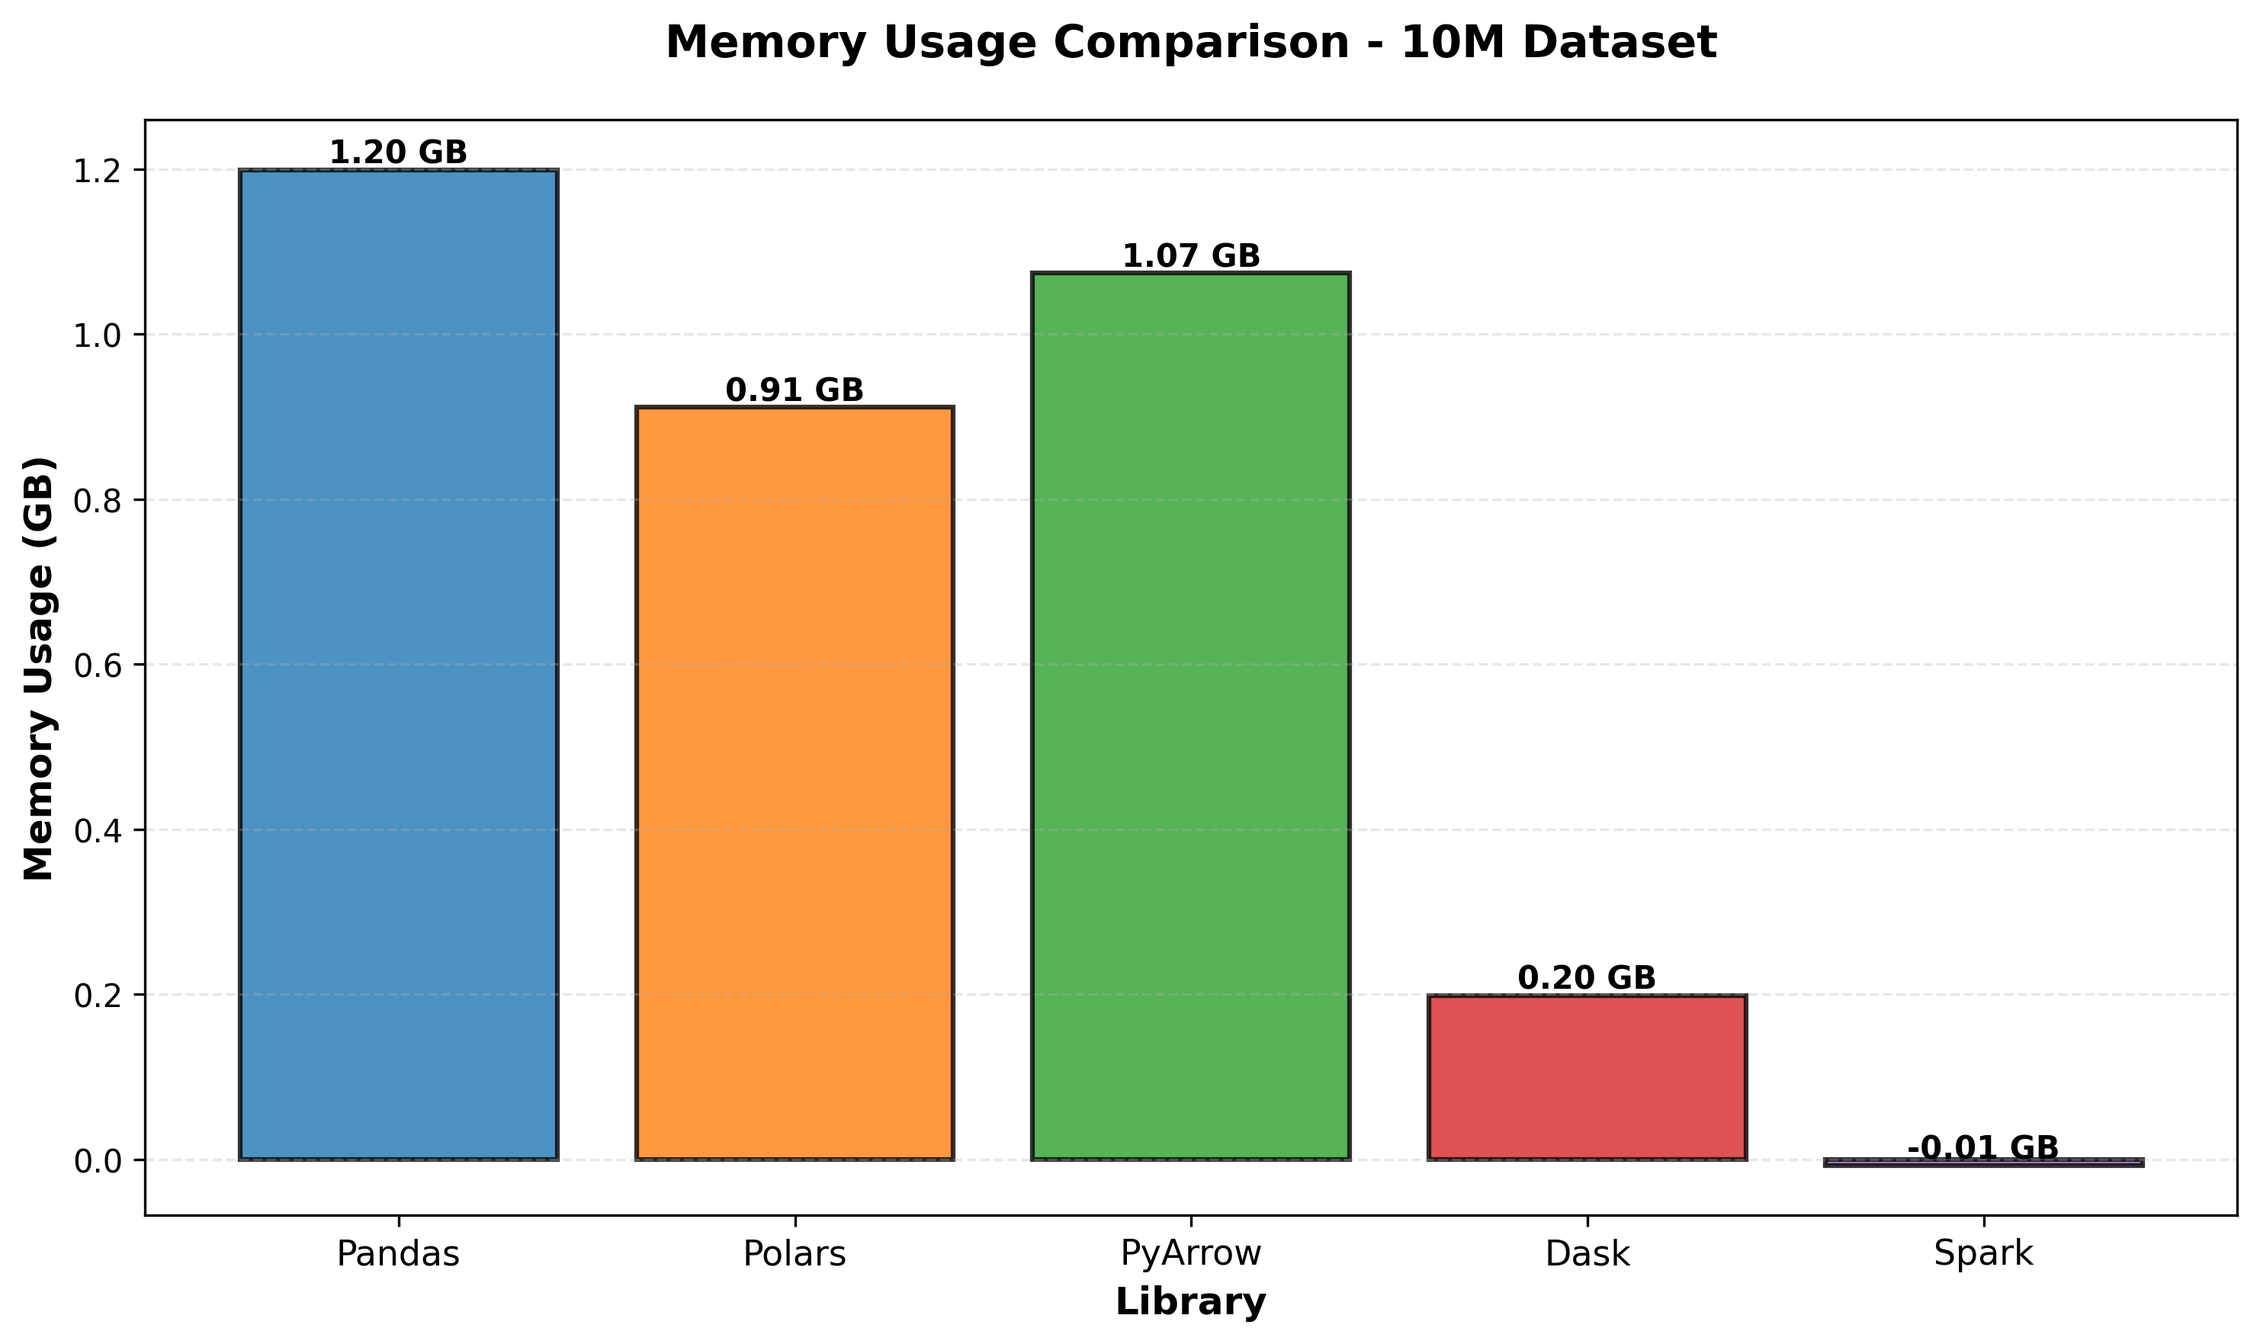
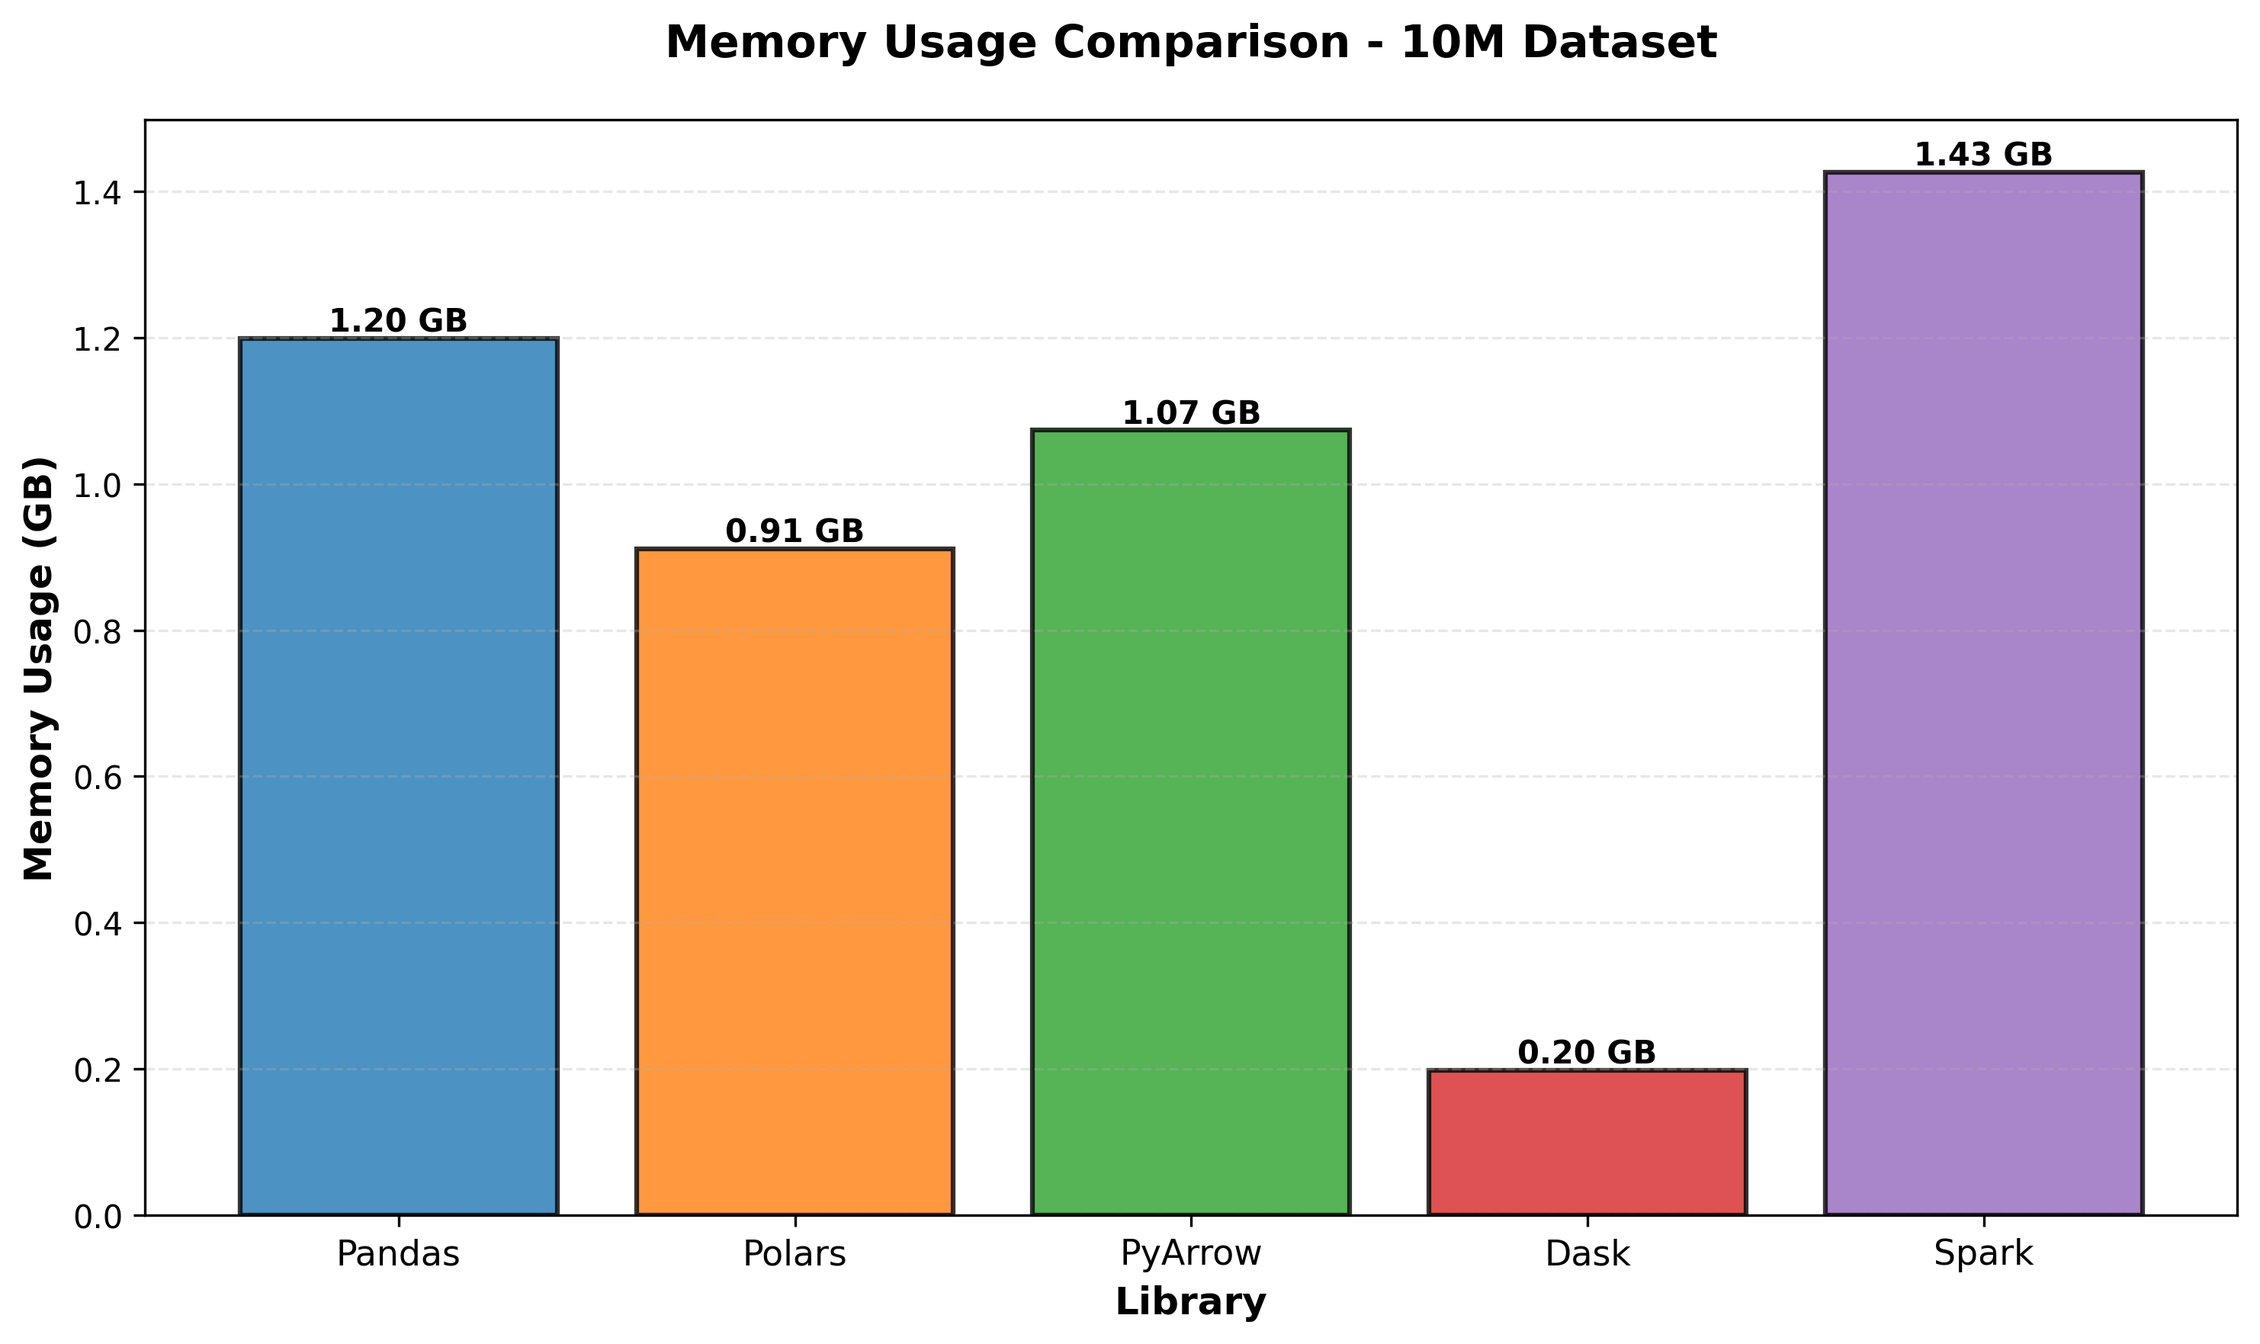
Enhance memory tracking and data processing in benchmarks

diff --git a/data_manipulation/benchmarks/unified/benchmark_all_libraries.py b/data_manipulation/benchmarks/unified/benchmark_all_libraries.py
@@ -3,6 +3,7 @@ import json
 import os
 import statistics
 import time
+import tracemalloc
 from dataclasses import dataclass
 from functools import wraps
 from pathlib import Path
@@ -11,7 +12,6 @@ from typing import Any, Dict, List, Optional, Tuple, Union
 import dask.dataframe as dd
 import pandas as pd
 import polars as pl
-import psutil
 import pyarrow as pa
 import pyarrow.compute as pc  # for compute functions
 from pyspark.sql import SparkSession
@@ -52,17 +52,20 @@ def time_operation(operation_name: str):
     def decorator(func):
         @wraps(func)
         def wrapper(self, *args, **kwargs):
-            # Memory before operation
-            process = psutil.Process()
-            memory_before = process.memory_info().rss / 1024 / 1024  # MB
+            # Start memory tracking
+            gc.collect()  # Clean up before measurement
+            tracemalloc.start()
 
             start_time = time.time()
             result = func(self, *args, **kwargs)
             execution_time = time.time() - start_time
 
-            # Memory after operation
-            memory_after = process.memory_info().rss / 1024 / 1024  # MB
-            memory_used = memory_after - memory_before
+            # Get memory usage (peak memory used during operation)
+            _, peak = tracemalloc.get_traced_memory()
+            tracemalloc.stop()
+
+            # Convert to MB
+            memory_used = peak / 1024 / 1024
 
             # Store single run results
             if not hasattr(self, "run_results"):
@@ -319,7 +322,10 @@ class DaskDataProcessor(BaseDataProcessor):
 
     @time_operation("cleaning")
     def clean_data(self, df: dd.DataFrame) -> dd.DataFrame:
-        return df.fillna(0)
+        result = df.fillna(0)
+        # Materialize to ensure computation happens
+        _ = result.head(1)
+        return result
 
     @time_operation("aggregation")
     def aggregate_data(self, df: dd.DataFrame) -> dd.DataFrame:
@@ -331,17 +337,26 @@ class DaskDataProcessor(BaseDataProcessor):
             .reset_index()
         )
         agg_df.columns = [*group_cols, "value2_mean", "value2_median", "value2_max"]
+        # Materialize the aggregation
+        agg_df = agg_df.persist()
+        _ = len(agg_df)
         return agg_df
 
     @time_operation("sorting")
     def sort_data(self, df: dd.DataFrame) -> dd.DataFrame:
         df = df.repartition(npartitions=max(1, df.npartitions // 4))
-        return df.sort_values("value2", ascending=False)
+        result = df.sort_values("value2", ascending=False)
+        # Materialize sorting
+        result = result.persist()
+        _ = len(result)
+        return result
 
     @time_operation("filtering")
     def filter_data(self, df: dd.DataFrame) -> Tuple[dd.DataFrame, float]:
         mean_value2 = df["value2"].mean().compute()
         filtered_df = df[df["value2"] > mean_value2]
+        # Materialize the filter
+        filtered_df = filtered_df.persist()
         avg_filtered = filtered_df["value2"].mean().compute()
         return filtered_df, avg_filtered
 
@@ -362,7 +377,7 @@ class PyArrowDataProcessor(BaseDataProcessor):
             ("category2", pa.int32()),
             ("category3", pa.int32()),
             ("code", pa.string()),
-            ("flag", pa.int64()),
+            ("flag", pa.int32()),  # Changed from int64 to int32 for consistency
             ("value1", pa.int32()),
             ("value2", pa.int32()),
         ]
@@ -492,7 +507,7 @@ class SparkDataProcessor(BaseDataProcessor):
             StructField("category2", IntegerType(), True),
             StructField("category3", IntegerType(), True),
             StructField("code", StringType(), True),
-            StructField("flag", LongType(), True),
+            StructField("flag", IntegerType(), True),  # Changed from LongType to IntegerType for consistency
             StructField("value1", IntegerType(), True),
             StructField("value2", IntegerType(), True),
         ]
@@ -518,8 +533,10 @@ class SparkDataProcessor(BaseDataProcessor):
     def load_data(self):
         df = self.spark.read.csv(str(self.file_path), schema=self.SCHEMA, header=False)
 
-        # Calculate metrics
+        # Materialize the dataframe to ensure loading is complete
+        df = df.cache()
         row_count = df.count()
+
         self.performance_metrics["row_count"] = row_count
 
         # Estimate memory size (rough approximation)
@@ -532,28 +549,45 @@ class SparkDataProcessor(BaseDataProcessor):
 
     @time_operation("cleaning")
     def clean_data(self, df):
-        return df.fillna(0)
+        result = df.fillna(0)
+        # Materialize to ensure computation
+        result = result.cache()
+        _ = result.count()
+        return result
 
     @time_operation("aggregation")
     def aggregate_data(self, df):
         group_cols = ["year_month", "category1", "category2"]
-        return df.groupBy(group_cols).agg(
+        result = df.groupBy(group_cols).agg(
             F.mean("value2").alias("value2_mean"),
-            F.expr("percentile_approx(value2, 0.5)").alias("value2_median"),
+            # Using exact median for fair comparison with other libraries
+            # Note: This is slower than percentile_approx but ensures consistent methodology
+            F.expr("percentile(value2, 0.5)").alias("value2_median"),
             F.max("value2").alias("value2_max"),
         )
+        # Materialize aggregation
+        result = result.cache()
+        _ = result.count()
+        return result
 
     @time_operation("sorting")
     def sort_data(self, df):
-        return df.orderBy(F.col("value2").desc())
+        result = df.orderBy(F.col("value2").desc())
+        # Materialize sorting
+        result = result.cache()
+        _ = result.count()
+        return result
 
     @time_operation("filtering")
     def filter_data(self, df):
         # Calculate mean value
         mean_value = df.select(F.mean("value2")).collect()[0][0]
 
-        # Filter and calculate new mean
+        # Filter and materialize
         filtered_df = df.filter(F.col("value2") > mean_value)
+        filtered_df = filtered_df.cache()
+
+        # Calculate new mean (this will trigger materialization)
         avg_filtered = filtered_df.select(F.mean("value2")).collect()[0][0]
 
         return filtered_df, float(avg_filtered)
@@ -586,10 +620,13 @@ class SparkDataProcessor(BaseDataProcessor):
             self.spark.stop()
 
 
-def run_single_iteration(processor, name: str, iteration: int):
-    """Run a single iteration of all operations."""
+def run_single_iteration(processor_class, file_path: str, name: str, iteration: int):
+    """Run a single iteration of all operations with a fresh processor instance."""
     try:
         print(f"  Iteration {iteration + 1}...")
+
+        # Create fresh processor instance for each iteration
+        processor = processor_class(file_path)
 
         df_result = processor.load_data()
         df_clean = processor.clean_data(df_result.df)
@@ -598,25 +635,27 @@ def run_single_iteration(processor, name: str, iteration: int):
         df_filtered = processor.filter_data(df_clean.df)
         correlation = processor.calculate_correlation(df_clean.df)
 
-        # Store average filtered value (only from last iteration)
-        if iteration == 0:  # Store from first iteration
-            processor.performance_metrics["average_filtered_value"] = (
-                df_filtered.additional_info
-            )
+        # Get the metrics from this single run
+        iteration_metrics = {
+            'average_filtered_value': df_filtered.additional_info,
+            'run_results': processor.run_results.copy()
+        }
 
         # Cleanup
-        del df_result, df_clean, df_agg, df_sorted, df_filtered, correlation
+        del df_result, df_clean, df_agg, df_sorted, df_filtered, correlation, processor
         cleanup_memory()
 
-        return True
+        return True, iteration_metrics
 
     except Exception as e:
         print(f"    Error in iteration {iteration + 1}: {e}")
-        return False
+        import traceback
+        traceback.print_exc()
+        return False, None
 
 
 def process_implementation(
-    processor, name: str, num_runs: int = 5, warmup_runs: int = 1
+    processor_class, file_path: str, name: str, num_runs: int = 5, warmup_runs: int = 1
 ):
     """Process implementation with multiple runs for statistical analysis."""
     try:
@@ -630,18 +669,31 @@ def process_implementation(
         print(f"  Running {warmup_runs} warm-up runs...")
         for i in range(warmup_runs):
             print(f"    Warm-up {i + 1}...")
-            # Create temporary processor for warmup
-            warmup_processor = type(processor)(processor.file_path)
-            run_single_iteration(warmup_processor, name, 0)
-            del warmup_processor
+            success, _ = run_single_iteration(processor_class, file_path, name, 0)
+            if not success:
+                print(f"    Warm-up {i + 1} failed, continuing...")
             cleanup_memory()
+
+        # Create a main processor to aggregate results
+        main_processor = processor_class(file_path)
 
         # Actual measured runs
         print(f"  Running {num_runs} measured runs...")
         successful_runs = 0
+        all_run_metrics = []
+
         for i in range(num_runs):
-            if run_single_iteration(processor, name, i):
+            success, iteration_metrics = run_single_iteration(processor_class, file_path, name, i)
+            if success and iteration_metrics:
                 successful_runs += 1
+                all_run_metrics.append(iteration_metrics)
+
+                # Aggregate run_results into main processor
+                for operation, data in iteration_metrics['run_results'].items():
+                    if operation not in main_processor.run_results:
+                        main_processor.run_results[operation] = {"times": [], "memory": []}
+                    main_processor.run_results[operation]["times"].extend(data["times"])
+                    main_processor.run_results[operation]["memory"].extend(data["memory"])
             else:
                 print(f"    Iteration {i + 1} failed, continuing...")
 
@@ -649,28 +701,47 @@ def process_implementation(
             print(f"All runs failed for {name}")
             return None
 
+        # Store average filtered value from first successful run
+        if all_run_metrics:
+            main_processor.performance_metrics["average_filtered_value"] = all_run_metrics[0]['average_filtered_value']
+
+        # Get basic metrics from a sample run (they should be the same across runs)
+        if all_run_metrics and 'run_results' in all_run_metrics[0]:
+            sample_processor = processor_class(file_path)
+            sample_result = sample_processor.load_data()
+            # These metrics are dataset-specific, not performance metrics
+            if hasattr(sample_processor, 'performance_metrics'):
+                if 'memory_size_gb' in sample_processor.performance_metrics:
+                    main_processor.performance_metrics['memory_size_gb'] = sample_processor.performance_metrics['memory_size_gb']
+                if 'row_count' in sample_processor.performance_metrics:
+                    main_processor.performance_metrics['row_count'] = sample_processor.performance_metrics['row_count']
+            del sample_processor, sample_result
+            cleanup_memory()
+
         # Calculate total operation time statistics
-        if hasattr(processor, "run_results"):
+        if hasattr(main_processor, "run_results"):
             all_operation_times = []
-            for operation, data in processor.run_results.items():
+            for operation, data in main_processor.run_results.items():
                 if "times" in data:
                     all_operation_times.extend(data["times"])
 
             if all_operation_times:
-                processor.performance_metrics["total_operation_time_mean"] = (
+                main_processor.performance_metrics["total_operation_time_mean"] = (
                     sum(all_operation_times)
                     / len(all_operation_times)
-                    * len(processor.run_results)
+                    * len(main_processor.run_results)
                 )
 
-        processor.save_performance_metrics(f"performance_metrics_{name}.json")
+        main_processor.save_performance_metrics(f"performance_metrics_{name}.json")
 
         print(
             f"{name.capitalize()} processing completed successfully! ({successful_runs}/{num_runs} runs)"
         )
         print(f"Memory cleaned after {name} implementation")
 
-        return {"metrics": processor.performance_metrics.copy()}
+        result = {"metrics": main_processor.performance_metrics.copy()}
+        del main_processor
+        return result
 
     except Exception as e:
         print(f"Error in {name} implementation: {e}")
@@ -684,27 +755,26 @@ def process_implementation(
 
 def run_comparison(file_path: str, skip_dask: bool = False, skip_spark: bool = False):
     """Run comparison between different implementations."""
-    processors = {
-        "pandas": PandasDataProcessor(file_path),
-        "polars": PolarsDataProcessor(file_path),
-        "pyarrow": PyArrowDataProcessor(file_path),
+    processor_classes = {
+        "pandas": PandasDataProcessor,
+        "polars": PolarsDataProcessor,
+        "pyarrow": PyArrowDataProcessor,
     }
 
     if not skip_dask:
-        processors["dask"] = DaskDataProcessor(file_path)
+        processor_classes["dask"] = DaskDataProcessor
 
     if not skip_spark:
-        try:
-            processors["spark"] = SparkDataProcessor(file_path)
-        except Exception as e:
-            print(f"Skipping Spark due to initialization error: {e}")
-            skip_spark = True
+        processor_classes["spark"] = SparkDataProcessor
 
     results = {}
-    for name, processor in processors.items():
-        result = process_implementation(processor, name)
-        if result:
-            results[name] = result
+    for name, processor_class in processor_classes.items():
+        try:
+            result = process_implementation(processor_class, file_path, name)
+            if result:
+                results[name] = result
+        except Exception as e:
+            print(f"Skipping {name} due to error: {e}")
         cleanup_memory()
 
     return results
@@ -812,27 +882,28 @@ def run_comprehensive_benchmark():
         # Test each library
         libraries = ["pandas", "polars", "pyarrow", "dask", "spark"]
 
+        processor_class_map = {
+            "pandas": PandasDataProcessor,
+            "polars": PolarsDataProcessor,
+            "pyarrow": PyArrowDataProcessor,
+            "dask": DaskDataProcessor,
+            "spark": SparkDataProcessor,
+        }
+
         for lib_name in libraries:
             try:
-                if lib_name == "pandas":
-                    processor = PandasDataProcessor(config["file"])
-                elif lib_name == "polars":
-                    processor = PolarsDataProcessor(config["file"])
-                elif lib_name == "pyarrow":
-                    processor = PyArrowDataProcessor(config["file"])
-                elif lib_name == "dask":
-                    processor = DaskDataProcessor(config["file"])
-                elif lib_name == "spark":
-                    processor = SparkDataProcessor(config["file"])
+                processor_class = processor_class_map.get(lib_name)
+                if processor_class is None:
+                    print(f"Unknown library: {lib_name}")
+                    continue
 
                 result = process_implementation(
-                    processor, f"{lib_name}_{config['name']}", num_runs, warmup_runs
+                    processor_class, config["file"], f"{lib_name}_{config['name']}", num_runs, warmup_runs
                 )
                 if result:
                     dataset_results[lib_name] = result
 
                 # Extra cleanup for memory-intensive operations
-                del processor
                 cleanup_memory()
 
             except Exception as e:
